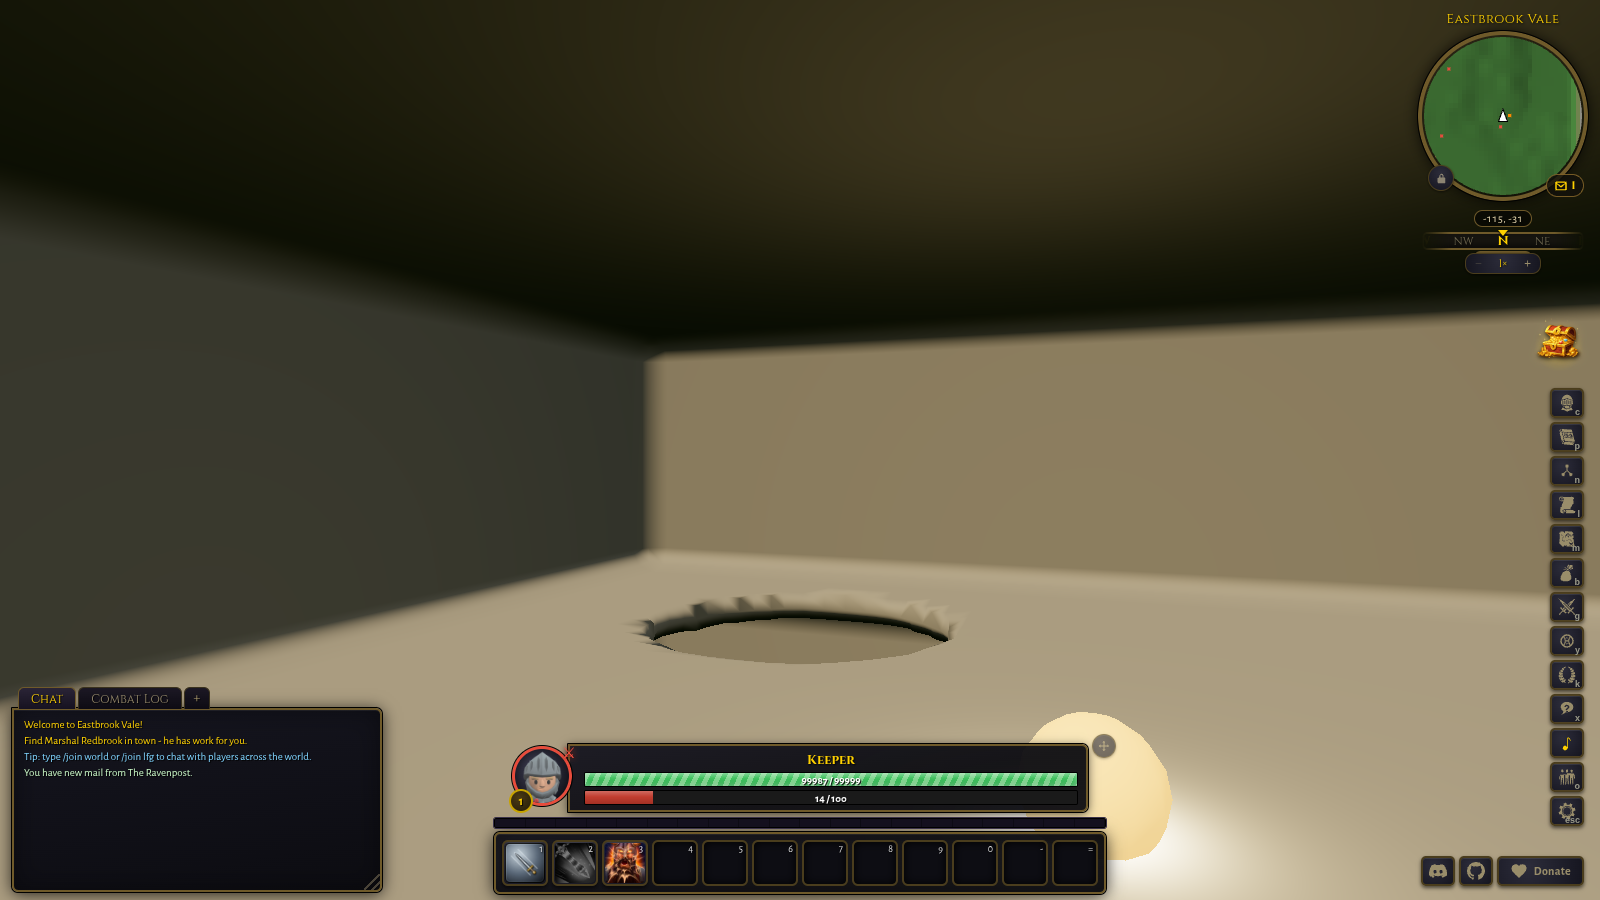
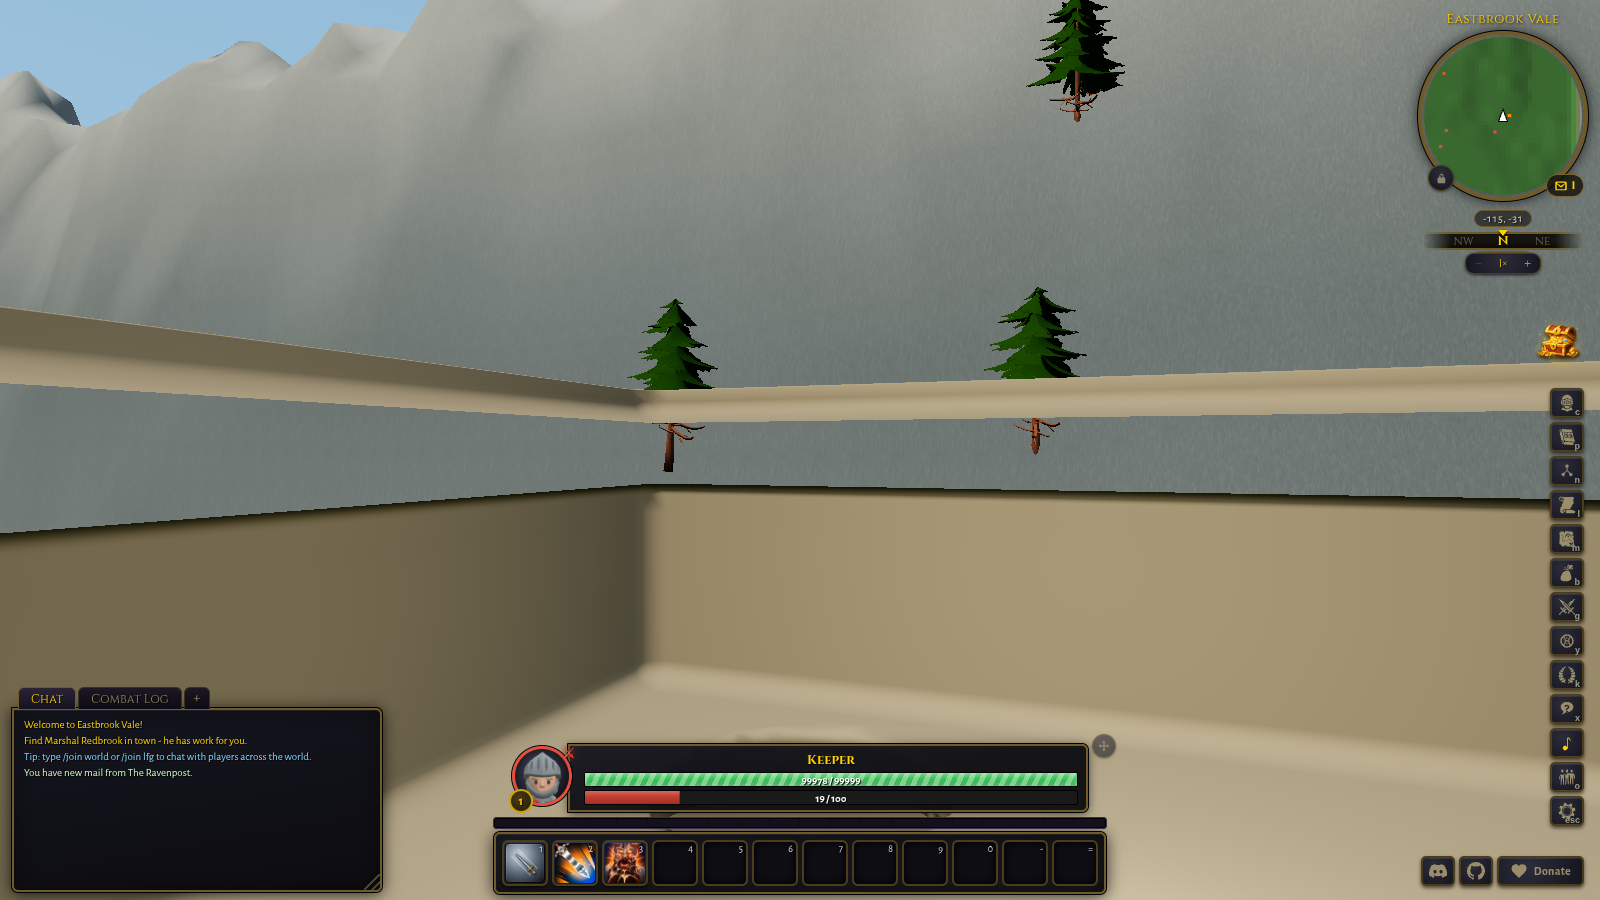
fix(render): improve keep interior lighting and fix z-fighting
Add point lights per floor and offset coincident floor/ceiling voxel
surfaces so the interior reads clearly instead of rendering dark with
flickering overlapping geometry.

diff --git a/src/render/voxel_building.ts b/src/render/voxel_building.ts
@@ -60,10 +60,20 @@ export function buildKeepView(seed: number): KeepView {
     group.add(shell);
   }
 
-  // One small glow marker (+ matching point light, since the interior has no
-  // other light source) per floor at its landing, only the local player's
-  // CURRENT floor lit at a time. Cheap, instance-free: this building is a
-  // single fixed landmark, not a repeated prop.
+  // One small glow marker + matching point light per floor at its landing,
+  // only the local player's CURRENT floor lit at a time. The keep is an
+  // open-world building (not a dungeon interior instance), so it gets no
+  // "drop sun + sky ambient" indoor override from renderer.ts; with walls
+  // and a roof blocking daylight, the point light is the ONLY practical
+  // light source up here, same convention dungeon.ts uses for its KayKit
+  // interiors (torch PointLights carry the whole scene, see
+  // DUNGEON_LIGHT_INTENSITY/DUNGEON_LIGHT_DISTANCE). Matched to that
+  // magnitude rather than the much dimmer decorative glow this used to be,
+  // and ranged to clear the KEEP_HALF*2 footprint corner-to-corner. Cheap,
+  // instance-free: this building is a single fixed landmark, not a repeated
+  // prop.
+  const KEEP_LIGHT_INTENSITY = 42;
+  const KEEP_LIGHT_DISTANCE = KEEP_HALF * 4;
   const markers: THREE.Mesh[] = [];
   const lights: THREE.PointLight[] = [];
   for (let floor = 1; floor <= KEEP_FLOORS; floor++) {
@@ -78,8 +88,8 @@ export function buildKeepView(seed: number): KeepView {
     group.add(marker);
     markers.push(marker);
 
-    const light = new THREE.PointLight(0xfff2d0, 6, KEEP_HALF * 3, 2);
-    light.position.set(KEEP_POS.x, y, KEEP_POS.z);
+    const light = new THREE.PointLight(0xfff2d0, KEEP_LIGHT_INTENSITY, KEEP_LIGHT_DISTANCE, 2);
+    light.position.set(KEEP_POS.x, y + 2.2, KEEP_POS.z);
     light.visible = false;
     group.add(light);
     lights.push(light);

diff --git a/src/sim/content/keep.ts b/src/sim/content/keep.ts
@@ -21,8 +21,17 @@ export const KEEP_HALF = 7;
 export const KEEP_WALL_THICK = 0.5;
 export const KEEP_FLOOR_HEIGHT = 4;
 export const KEEP_FLOORS = 3;
-export const KEEP_SLAB_THICK = 0.4;
-export const KEEP_ROOF_THICK = 0.5;
+// Thick enough to stay several voxels deep at the keep's mesh resolution
+// (src/render/voxel_building.ts: 64 samples over a ~18yd chunk, so a voxel is
+// ~0.28yd wide): a slab thinner than about one voxel produces a near-zero-
+// thickness surface the marching-cubes mesher resolves as two almost
+// coincident faces, which z-fights under the camera on floors 2/3 where the
+// slab is suspended mid-air (floor 1's slab sits flush on the foundation, so
+// the artifact there is masked by the ground below it). Purely a mesh
+// thickness: floor Y (keepFloorY) and collision (colliders.ts) don't depend
+// on this constant.
+export const KEEP_SLAB_THICK = 0.9;
+export const KEEP_ROOF_THICK = 0.9;
 
 // The door opening is centered on the south wall (local z = -KEEP_HALF),
 // spans ground-floor height, and is the ONLY way in: normal open-world
